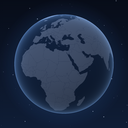
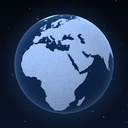
gizlilik politikası: ödüllü reklam anlatıldı
latitudle reposundaki docs/privacy.md'den tools/build_legal.py ile yeniden
üretildi. Politika artık AdMob'u adıyla anıyor, ne aldığını ve yalnızca oyuncu
izlemeyi seçtiğinde olduğunu söylüyor; "internet izni yok" iddiası kalktı.

Simge de tazelendi: sayfa, uygulamanın 1.6'da değişen gradasyonundan önceki
eski simgeyi taşıyormuş.

Claude-Session: https://claude.ai/code/session_014ytxFpxyhggMeqMHv6fLLT

diff --git a/privacy.html b/privacy.html
@@ -53,44 +53,60 @@ footer{margin-top:56px;padding-top:22px;border-top:1px solid #26344F;
 <header>
   <div class="mark">LATITUDLE</div><div class="rule"></div>
   <h1>Privacy Policy / Gizlilik Politikası</h1>
-  <div class="meta"><p><strong>Last updated / Son güncelleme: 17 September 2026</strong></p><p>Applies to / Kapsam: Latitudle for Android (<code>com.afurkantitiz.latitudle</code>), all versions.</p></div>
+  <div class="meta"><p><strong>Last updated / Son güncelleme: 19 September 2026</strong></p><p>Applies to / Kapsam: Latitudle for Android (<code>com.afurkantitiz.latitudle</code>), all versions.</p></div>
   <nav><a href="#en" class="on">English</a><a href="#tr">Türkçe</a></nav>
 </header>
 <section id="en"><h2>Short version</h2>
-<p>Latitudle collects nothing. It has no internet permission, so it cannot send anything anywhere even if it wanted to. There are no accounts, no ads, no analytics and no third‑party SDKs. Everything you do in the game stays in the app's own storage on your device.</p>
+<p>The game collects nothing about you. There are no accounts and no analytics, and everything you do in the game stays in the app's own storage on your device.</p>
+<p>There is one exception, and it is yours to trigger: <strong>an optional rewarded ad.</strong> When you are stuck, the game can offer you a hint or the answer in exchange for watching a short ad. Those ads come from Google AdMob, and AdMob receives data of its own when one plays. If you never ask for help, no ad is ever requested and nothing leaves your device.</p>
 <h2>What the app stores, and where</h2>
 <p>Latitudle keeps a single settings file in its private app storage on your device. It holds:</p>
 <ul><li>your guesses for the current puzzles, and which puzzles you have finished;</li><li>your statistics: games played, wins, current and longest streak, guess distribution;</li><li>your passport: the countries you have found and the countries you have guessed;</li><li>your preferences: language, distance unit, daily reminder.</li></ul>
 <p>No part of this ever leaves the device through the app. Uninstalling Latitudle deletes all of it.</p>
-<h2>No network access</h2>
-<p>The app declares no <code>INTERNET</code> permission in its manifest. Android therefore blocks every network call it could attempt. Map data, country names and distances ship inside the app itself; nothing is downloaded or reported at any point.</p>
+<h2>The game works offline; only help needs a connection</h2>
+<p>Map data, country names and distances ship inside the app itself. The puzzle, the globe, your statistics, your passport, sharing, past puzzles and the blitz all work with no connection at all.</p>
+<p>The internet is used for exactly one thing: fetching a rewarded ad when you have asked for a hint or for the answer. With no connection, those buttons are simply not shown and the rest of the game is unchanged.</p>
+<h2>Ads (Google AdMob)</h2>
+<p>Ads are served by Google AdMob, and they are never forced: there are no banners, no ads between screens and no ad on start-up. An ad plays only after you tap a help button and then confirm it.</p>
+<p>When an ad is requested, Google receives data such as your device's advertising ID, your IP address (from which an approximate location can be derived), device and app information, and how you interact with the ad. Google uses this to serve and measure ads. What Google does with it is described in its own policies:</p>
+<ul><li>Google Privacy Policy — https://policies.google.com/privacy</li><li>How Google uses data from sites or apps that use its services — https://policies.google.com/technologies/partner-sites</li></ul>
+<p>Latitudle itself never sees, stores or receives any of this. It has no server of its own.</p>
+<p>Where consent law requires it (the EEA, the UK and Switzerland), the app shows Google's own consent form before any ad is requested, and a <strong>Settings → Ads → Ad preferences</strong> entry lets you reopen it and change your answer at any time. Outside those regions the platform reports no requirement and the entry is not shown.</p>
 <h2>Permissions the app does ask for</h2>
-<ul><li><strong>Notifications</strong> (<code>POST_NOTIFICATIONS</code>) — only if you turn on the optional daily reminder. The reminder is a local alarm on your device; nothing is sent to a server, and the app never shows a notification on days you have already solved.</li><li><strong>Run at startup</strong> (<code>RECEIVE_BOOT_COMPLETED</code>) — so the reminder you set survives a reboot. It is used for nothing else.</li></ul>
-<p>Both are optional: decline them and the rest of the game works exactly the same.</p>
+<ul><li><strong>Notifications</strong> (<code>POST_NOTIFICATIONS</code>) — only if you turn on the optional daily reminder. The reminder is a local alarm on your device; nothing is sent to a server, and the app never shows a notification on days you have already solved.</li><li><strong>Run at startup</strong> (<code>RECEIVE_BOOT_COMPLETED</code>) — so the reminder you set survives a reboot. It is used for nothing else.</li><li><strong>Internet</strong> (<code>INTERNET</code>) and <strong>advertising ID</strong> (<code>AD_ID</code>) — used only to fetch a rewarded ad when you have asked for one.</li><li><strong>Network state</strong> (<code>ACCESS_NETWORK_STATE</code>) — read-only, to tell an offline device apart from a connected one, so the app can leave the help buttons out instead of offering something it cannot deliver.</li></ul>
+<p>The notification permissions are optional: decline them and the rest of the game works exactly the same. Declining a connection does the same — you simply do not get the optional hints.</p>
 <h2>Android Backup</h2>
 <p>If you have Android's Auto Backup turned on for your device, Android may copy the app's settings file to <strong>your own</strong> Google account, the same way it does for other apps. That is a transfer between you and Google, governed by Google's terms, not by Latitudle — the app neither reads nor sends it. You can turn Auto Backup off in your device's system settings.</p>
 <h2>Children</h2>
-<p>Latitudle is suitable for all ages. Because it collects no data at all, it collects no data from children either.</p>
+<p>Latitudle is suitable for all ages. The game collects no data from anyone, children included. The optional ads are served by Google AdMob under its own policies, and the app requests only ad content rated suitable for general audiences.</p>
 <h2>Changes</h2>
 <p>If this policy ever changes, the updated version will be published at this address with a new date at the top.</p>
 <h2>Contact</h2>
 <p>Questions about this policy: <a href="mailto:titizabdullahfurkan@gmail.com">titizabdullahfurkan@gmail.com</a></p>
 <p>---</p></section>
 <section id="tr"><h2>Kısa hâli</h2>
-<p>Latitudle hiçbir veri toplamaz. İnternet izni yoktur; dolayısıyla istese de hiçbir yere hiçbir şey gönderemez. Hesap, reklam, analitik ve üçüncü taraf SDK'sı yoktur. Oyunda yaptığınız her şey cihazınızdaki uygulamaya özel depolama alanında kalır.</p>
+<p>Oyun sizinle ilgili hiçbir veri toplamaz. Hesap ve analitik yoktur; oyunda yaptığınız her şey cihazınızdaki uygulamaya özel depolama alanında kalır.</p>
+<p>Tek bir istisna var ve onu başlatan sizsiniz: <strong>isteğe bağlı ödüllü reklam.</strong> Takıldığınızda oyun, kısa bir reklam izlemeniz karşılığında ipucu ya da cevabı önerebilir. Bu reklamlar Google AdMob'dan gelir ve bir reklam oynadığında AdMob kendi verisini alır. Hiç yardım istemezseniz hiç reklam istenmez ve cihazınızdan hiçbir şey çıkmaz.</p>
 <h2>Uygulama neyi, nerede saklıyor</h2>
 <p>Latitudle cihazınızdaki özel uygulama alanında tek bir ayar dosyası tutar. İçinde şunlar vardır:</p>
 <ul><li>açık bulmacalardaki tahminleriniz ve bitirdiğiniz bulmacalar;</li><li>istatistikleriniz: oynanan, kazanılan, mevcut ve en uzun seri, tahmin dağılımı;</li><li>pasaportunuz: bulduğunuz ülkeler ve tahmin ettiğiniz ülkeler;</li><li>tercihleriniz: dil, mesafe birimi, günlük hatırlatma.</li></ul>
 <p>Bunların hiçbiri uygulama aracılığıyla cihazdan çıkmaz. Latitudle'ı kaldırdığınızda hepsi silinir.</p>
-<h2>Ağ erişimi yok</h2>
-<p>Uygulama manifest'inde <code>INTERNET</code> izni tanımlı değildir. Bu yüzden Android, uygulamanın deneyebileceği her ağ çağrısını engeller. Harita verisi, ülke adları ve mesafeler uygulamanın içinde gelir; hiçbir aşamada bir şey indirilmez veya bildirilmez.</p>
+<h2>Oyun çevrimdışı çalışır; yalnızca yardım bağlantı ister</h2>
+<p>Harita verisi, ülke adları ve mesafeler uygulamanın içinde gelir. Bulmaca, küre, istatistikleriniz, pasaportunuz, paylaşım, geçmiş bulmacalar ve blitz hiçbir bağlantı olmadan çalışır.</p>
+<p>İnternet tam olarak tek bir şey için kullanılır: ipucu ya da cevap istediğinizde ödüllü reklamı getirmek. Bağlantı yoksa o düğmeler hiç gösterilmez ve oyunun geri kalanı aynen çalışır.</p>
+<h2>Reklamlar (Google AdMob)</h2>
+<p>Reklamlar Google AdMob tarafından sunulur ve asla zorunlu değildir: banner yok, ekranlar arası reklam yok, açılışta reklam yok. Reklam ancak bir yardım düğmesine dokunup onayladıktan sonra oynar.</p>
+<p>Bir reklam istendiğinde Google; cihazınızın reklam kimliği, IP adresiniz (buradan yaklaşık bir konum çıkarılabilir), cihaz ve uygulama bilgileri ile reklamla nasıl etkileşime girdiğiniz gibi verileri alır. Google bunları reklam sunmak ve ölçmek için kullanır. Bu verilerle ne yaptığı kendi politikalarında anlatılır:</p>
+<ul><li>Google Gizlilik Politikası — https://policies.google.com/privacy</li><li>Google'ın hizmetlerini kullanan site ve uygulamalardan gelen verileri nasıl kullandığı — https://policies.google.com/technologies/partner-sites</li></ul>
+<p>Latitudle bunların hiçbirini görmez, saklamaz ve almaz. Kendine ait bir sunucusu yoktur.</p>
+<p>Onay mevzuatının gerektirdiği yerlerde (AEA, Birleşik Krallık ve İsviçre) uygulama, herhangi bir reklam istenmeden önce Google'ın kendi onay formunu gösterir; <strong>Ayarlar → Reklamlar → Reklam tercihleri</strong> satırından bu formu istediğiniz zaman yeniden açıp cevabınızı değiştirebilirsiniz. Bu bölgelerin dışında platform bir gereklilik bildirmez ve satır hiç görünmez.</p>
 <h2>Uygulamanın istediği izinler</h2>
-<ul><li><strong>Bildirimler</strong> (<code>POST_NOTIFICATIONS</code>) — yalnızca isteğe bağlı günlük hatırlatmayı açarsanız. Hatırlatma cihazınızdaki yerel bir alarmdır; sunucuya bir şey gitmez ve zaten çözdüğünüz günlerde bildirim gösterilmez.</li><li><strong>Açılışta çalıştır</strong> (<code>RECEIVE_BOOT_COMPLETED</code>) — kurduğunuz hatırlatmanın yeniden başlatmadan sonra da durması için. Başka hiçbir amaçla kullanılmaz.</li></ul>
-<p>İkisi de isteğe bağlıdır; vermezseniz oyunun geri kalanı aynı şekilde çalışır.</p>
+<ul><li><strong>Bildirimler</strong> (<code>POST_NOTIFICATIONS</code>) — yalnızca isteğe bağlı günlük hatırlatmayı açarsanız. Hatırlatma cihazınızdaki yerel bir alarmdır; sunucuya bir şey gitmez ve zaten çözdüğünüz günlerde bildirim gösterilmez.</li><li><strong>Açılışta çalıştır</strong> (<code>RECEIVE_BOOT_COMPLETED</code>) — kurduğunuz hatırlatmanın yeniden başlatmadan sonra da durması için. Başka hiçbir amaçla kullanılmaz.</li><li><strong>İnternet</strong> (<code>INTERNET</code>) ve <strong>reklam kimliği</strong> (<code>AD_ID</code>) — yalnızca siz istediğinizde ödüllü reklamı getirmek için.</li><li><strong>Ağ durumu</strong> (<code>ACCESS_NETWORK_STATE</code>) — yalnızca okuma; çevrimdışı bir cihazı bağlı olandan ayırmak için. Böylece uygulama, sunamayacağı bir şeyi teklif etmek yerine yardım düğmelerini hiç göstermez.</li></ul>
+<p>Bildirim izinleri isteğe bağlıdır; vermezseniz oyunun geri kalanı aynı şekilde çalışır. Bağlantı vermemek de öyle — sadece isteğe bağlı ipuçlarını alamazsınız.</p>
 <h2>Android Yedekleme</h2>
 <p>Cihazınızda Android'in Otomatik Yedekleme özelliği açıksa, Android uygulamanın ayar dosyasını diğer uygulamalarda olduğu gibi <strong>sizin kendi</strong> Google hesabınıza kopyalayabilir. Bu, sizinle Google arasında gerçekleşen ve Google'ın koşullarına tabi olan bir aktarımdır; Latitudle bu dosyayı ne okur ne gönderir. Otomatik Yedekleme'yi cihaz ayarlarınızdan kapatabilirsiniz.</p>
 <h2>Çocuklar</h2>
-<p>Latitudle her yaş için uygundur. Hiç veri toplamadığı için çocuklardan da veri toplamaz.</p>
+<p>Latitudle her yaş için uygundur. Oyun hiç kimseden, çocuklar dâhil, veri toplamaz. İsteğe bağlı reklamlar Google AdMob tarafından kendi politikaları uyarınca sunulur ve uygulama yalnızca genel izleyiciye uygun derecelendirilmiş reklam içeriği ister.</p>
 <h2>Değişiklikler</h2>
 <p>Bu politika değişirse, güncellenen sürüm bu adreste, en üstte yeni bir tarihle yayımlanır.</p>
 <h2>İletişim</h2>
